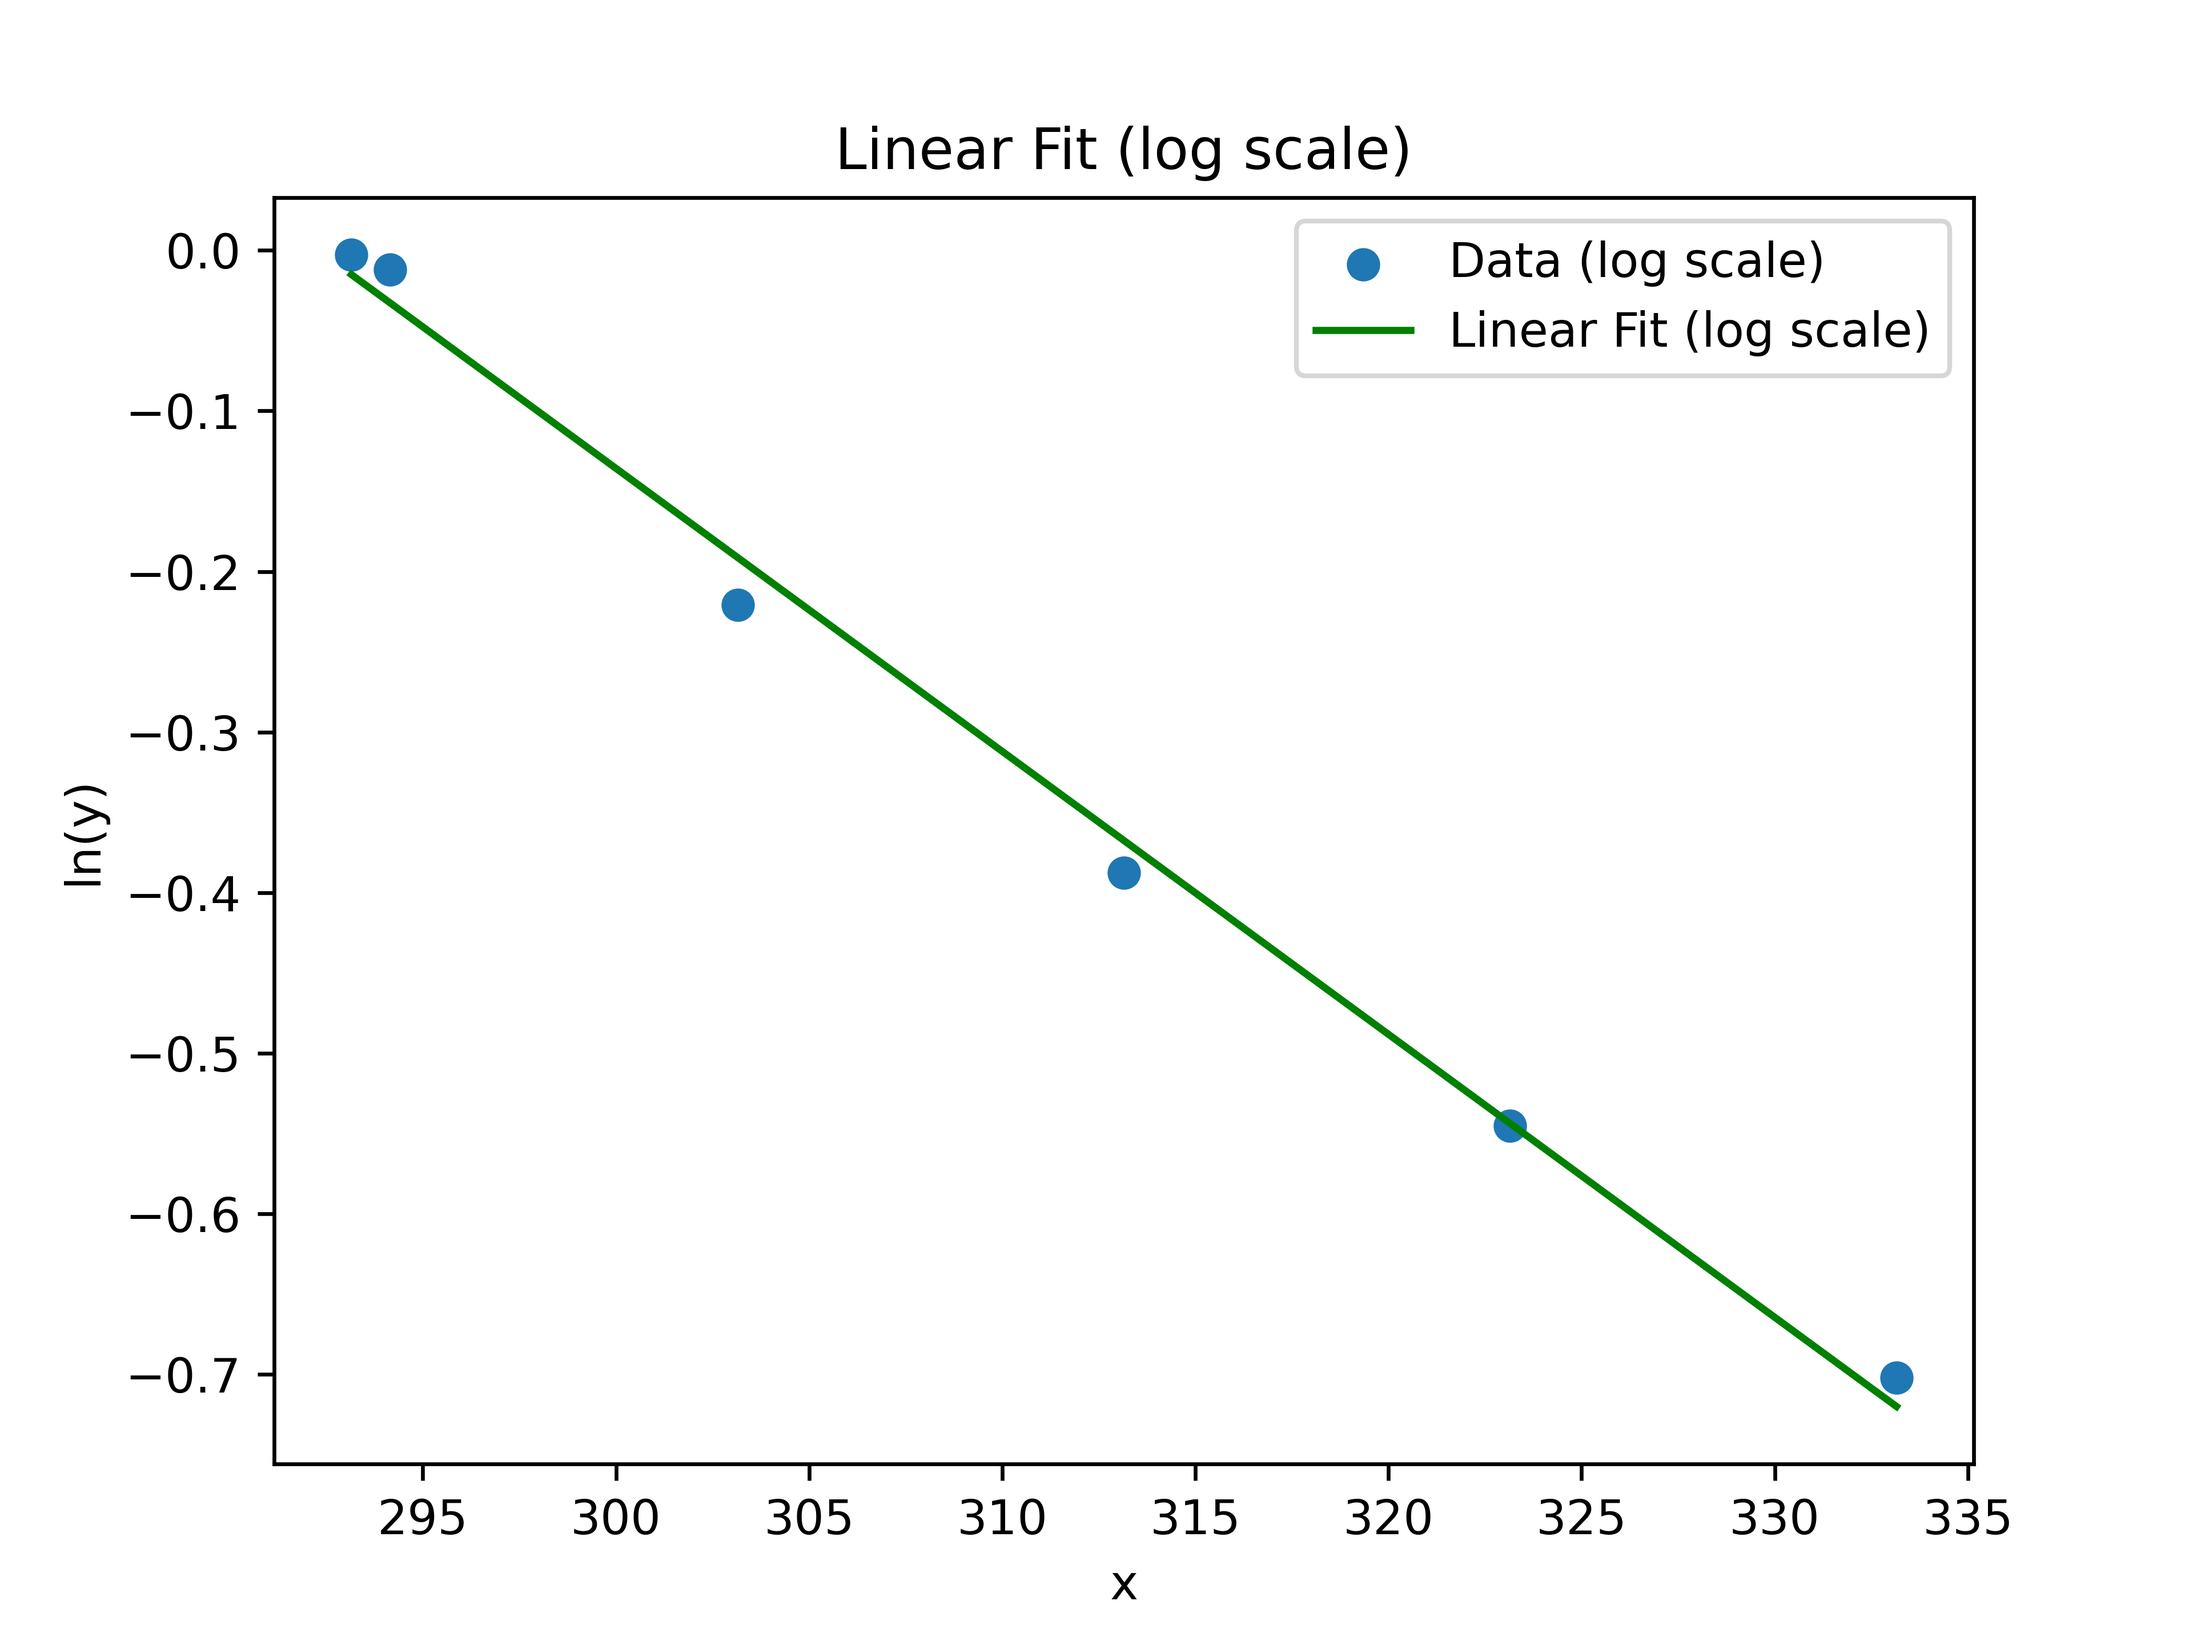
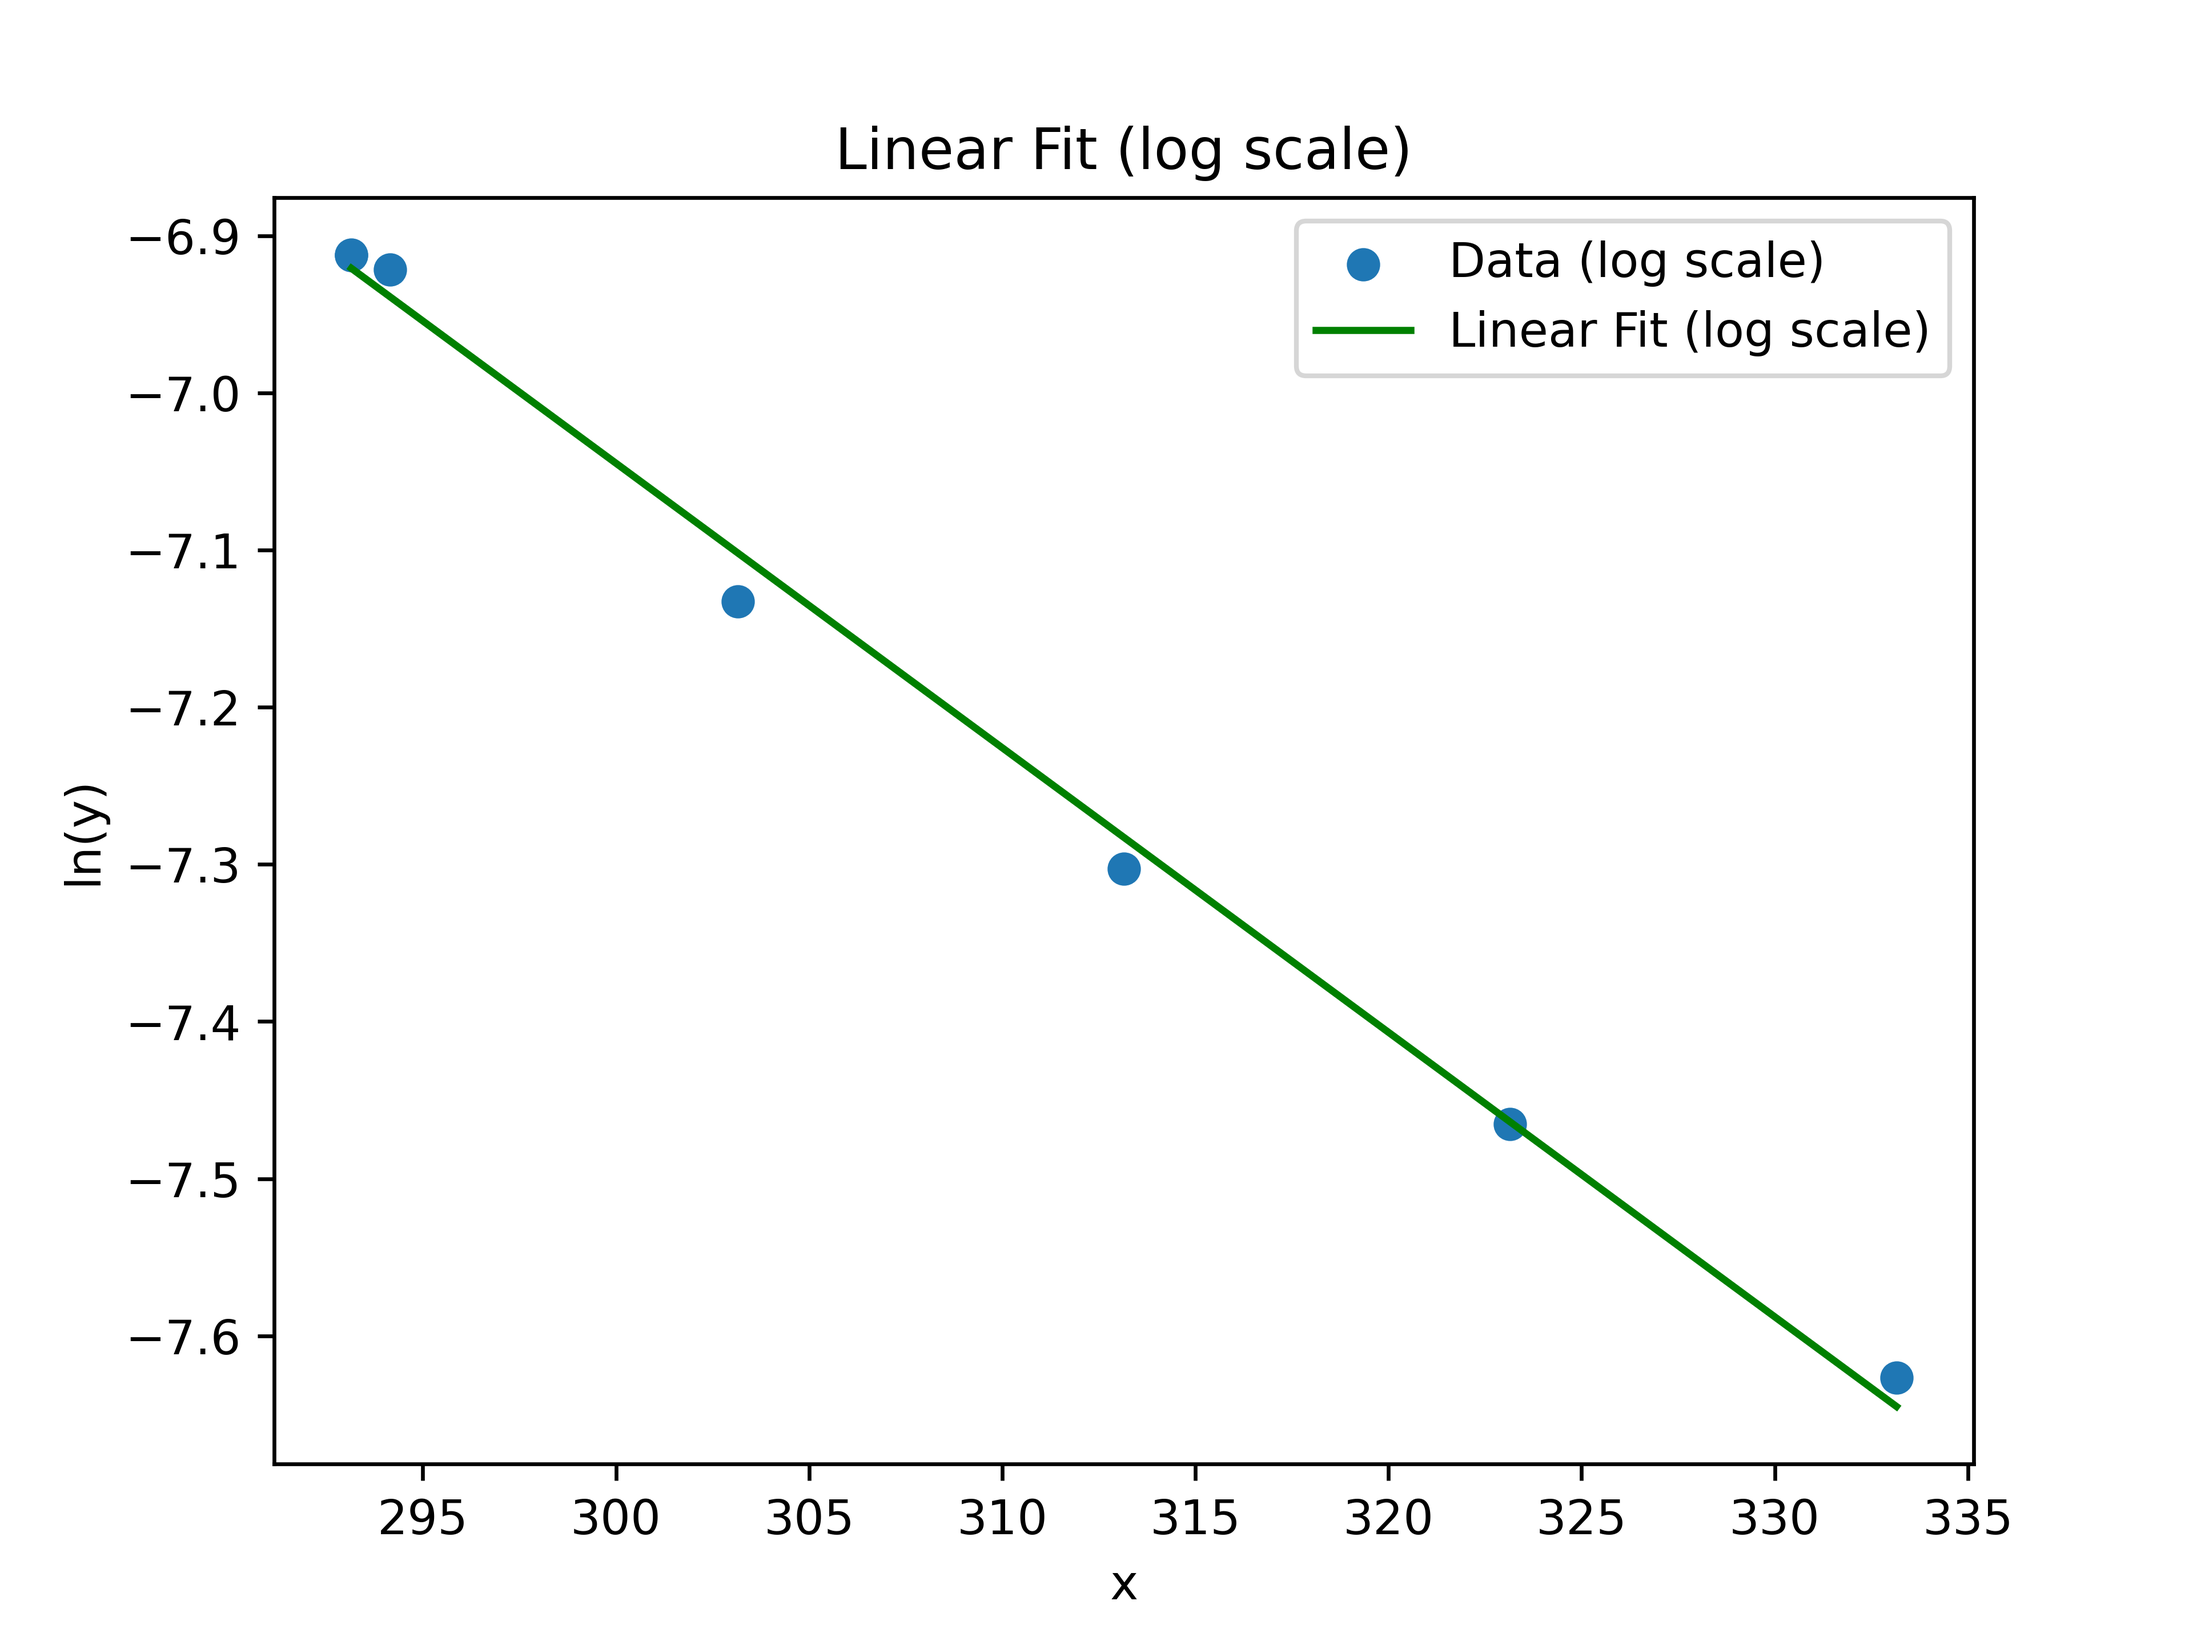
feat: tbh don't remember what exactly I changed :D

diff --git a/practicum/praktikum_xii/viscosity_linfit.py b/practicum/praktikum_xii/viscosity_linfit.py
@@ -1,38 +1,28 @@
 import numpy as np
 import matplotlib.pyplot as plt
 
-# data=np.loadtxt("data.txt")
-# print(data[:,1])
-# data_y = data[:,1]
+data=np.loadtxt("data.txt")
+data_y = data[:,1]
 
-# for i in range (len(data_y)):
-#     data_y[i] = np.log(data_y[i])
+for i in range (len(data_y)):
+    data_y[i] = np.log(data_y[i])
 
-# model,V=np.polyfit(data[:,0],data_y,1,cov=True)
-# y_fit=np.polyval(model,data[:,0])
-# fig,ax=plt.subplots()
+model,V=np.polyfit(data[:,0],data_y,1,cov=True)
+y_fit=np.polyval(model,data[:,0])
+fig,ax=plt.subplots()
 
-# ax.plot(data[:,0],y_fit,c="red")
-# ax.set_xlabel("x", fontsize=15)
-# ax.set_ylabel("y", fontsize=15)
+ax.plot(data[:,0],y_fit,c="red")
+ax.set_xlabel("x", fontsize=15)
+ax.set_ylabel("y", fontsize=15)
 # ax.set_yscale('log')
 
-# plt.savefig("fit_log_e.png",dpi=600)
+plt.savefig("fit_log_e.png",dpi=600)
 
-# print("y=ax+b")
-# print("a = ",model[0], "+/-", np.sqrt(V[0,0]))
-# print("b = ",model[1], "+/-", np.sqrt(V[1,1]))
-# print("cov(a,b) = ",V[0,1])
-# print("corr(a,b) = ",V[0,1]/(np.sqrt(V[0,0]*V[1,1])))
-
-# data = [332.083, 332.035, 329.051, 267.055, 226.045, 193.031, 165.049]
-# v = []
-# A = 0.003003
-
-# for i in range (len(data)):
-#     v.append(A * data[i])
-
-# print(v)
+print("y=ax+b")
+print("a = ",model[0], "+/-", np.sqrt(V[0,0]))
+print("b = ",model[1], "+/-", np.sqrt(V[1,1]))
+print("cov(a,b) = ",V[0,1])
+print("corr(a,b) = ",V[0,1]/(np.sqrt(V[0,0]*V[1,1])))
 
 data = [150.070, 152.072, 151.001, 153.030, 150.098, 150.064, 150.013, 149.073, 149.007, 149.087]
 
@@ -125,12 +115,20 @@ sigma_Re_sq = sigma_Re(sigma_r, sigma_rho, sigma_v, sigma_eta, rho, v, r, eta)
 sigma_Re_val = (sigma_Re_sq)**0.5
 print("Sigma_Re:", sigma_Re_val)
 
-# data = [332.083, 332.035, 329.051, 267.055, 226.045, 193.031, 165.049]
+data = [332.083, 332.035, 329.051, 267.055, 226.045, 193.031, 165.049]
 
-# k = 0.003003
-# v = []
+k = 0.003003
+v = []
 
-# for i in range(len(data)):
-#     v.append(k*data[i]/1000000)
+for i in range(len(data)):
+    v.append(k*data[i]/1000000)
 
-# print(v)
+print(v)
+
+rho = [998.2, 998.2, 998, 995.6, 992.2, 988, 983.2]
+eta = []
+
+for i in range(len(rho)):
+    eta.append(v[i]*rho[i])
+
+print(eta)

diff --git a/practicum/praktikum_xii/fit_2.py b/practicum/praktikum_xii/fit_2.py
@@ -1,27 +1,42 @@
 import numpy as np
 import matplotlib.pyplot as plt
+from scipy.optimize import curve_fit
 
 # Load data from the file
 data = np.array([
-    [20, 0.997101105],
-    [21, 0.988140153],
-    [30, 0.8019661650000001],
-    [40, 0.678813135],
-    [50, 0.579672093],
-    [60, 0.4956421470000001],
+    [20, 0.0009954502075518001],
+    [20, 0.0009953063230110002], 
+    [21, 0.000986163872694], 
+    [30, 0.0007984375138740001], 
+    [40, 0.000673518392547], 
+    [50, 0.000572716027884], 
+    [60, 0.0004873153589304001],
 ])
 
+# data = np.array([
+#     [20, 0.997101105],
+#     [21, 0.988140153],
+#     [30, 0.8019661650000001],
+#     [40, 0.678813135],
+#     [50, 0.579672093],
+#     [60, 0.4956421470000001],
+# ])
+
 x_values = data[:, 0] + 273.15
-print(x_values)
 y_values = data[:, 1]
 
-# Perform exponential fit
-popt, pcov = np.polyfit(x_values, np.log(y_values), 1, cov=True)
-a = np.exp(popt[1])
-b = popt[0]
+# Define the fitting function
+def exponential_function(x, a, b):
+    return a * np.exp(b / x)
+
+# Perform curve fitting
+popt, pcov = curve_fit(exponential_function, x_values, y_values)
 
 # Calculate fitted values
-y_fit_exp = a * np.exp(b * x_values)
+y_fit_exp = exponential_function(x_values, *popt)
+
+# Extract standard deviations (errors) of parameters
+perr = np.sqrt(np.diag(pcov))
 
 # Plot data and exponential fit
 plt.scatter(x_values, y_values, label='Data')
@@ -30,13 +45,19 @@ plt.xlabel('T [K]')
 plt.ylabel('Viscosity [mm2 s-1]')
 plt.title('Exponential Fit')
 plt.legend()
-plt.savefig("fit_exp.png",dpi=600)
+plt.savefig("fit_exponential.png",dpi=600)
 plt.show()
 
 # Print exponential fit parameters
 print("Exponential Fit Parameters:")
-print("a =", a)
-print("b =", b)
+print("a =", popt[0])
+print("b =", popt[1])
+
+# Print standard deviations of parameters
+print("Standard deviations (errors) of parameters:")
+print("Error of a:", perr[0])
+print("Error of b:", perr[1])
+
 
 # Convert exponential fit to linear fit
 log_y_values = np.log(y_values)

diff --git a/practicum/praktikum_xii/fit.py b/practicum/praktikum_xii/fit.py
@@ -3,13 +3,13 @@ import matplotlib.pyplot as plt
 
 # Load data from the file
 data = np.array([
-    [20, 332.083],
-    [20, 332.035],
-    [21, 329.051],
-    [30, 267.055],
-    [40, 226.045],
-    [50, 193.031],
-    [60, 165.049]
+    [20, 0.0009954502075518001],
+    [20, 0.0009953063230110002], 
+    [21, 0.000986163872694], 
+    [30, 0.0007984375138740001], 
+    [40, 0.000673518392547], 
+    [50, 0.000572716027884], 
+    [60, 0.0004873153589304001],
 ])
 
 x_values = data[:, 0]
